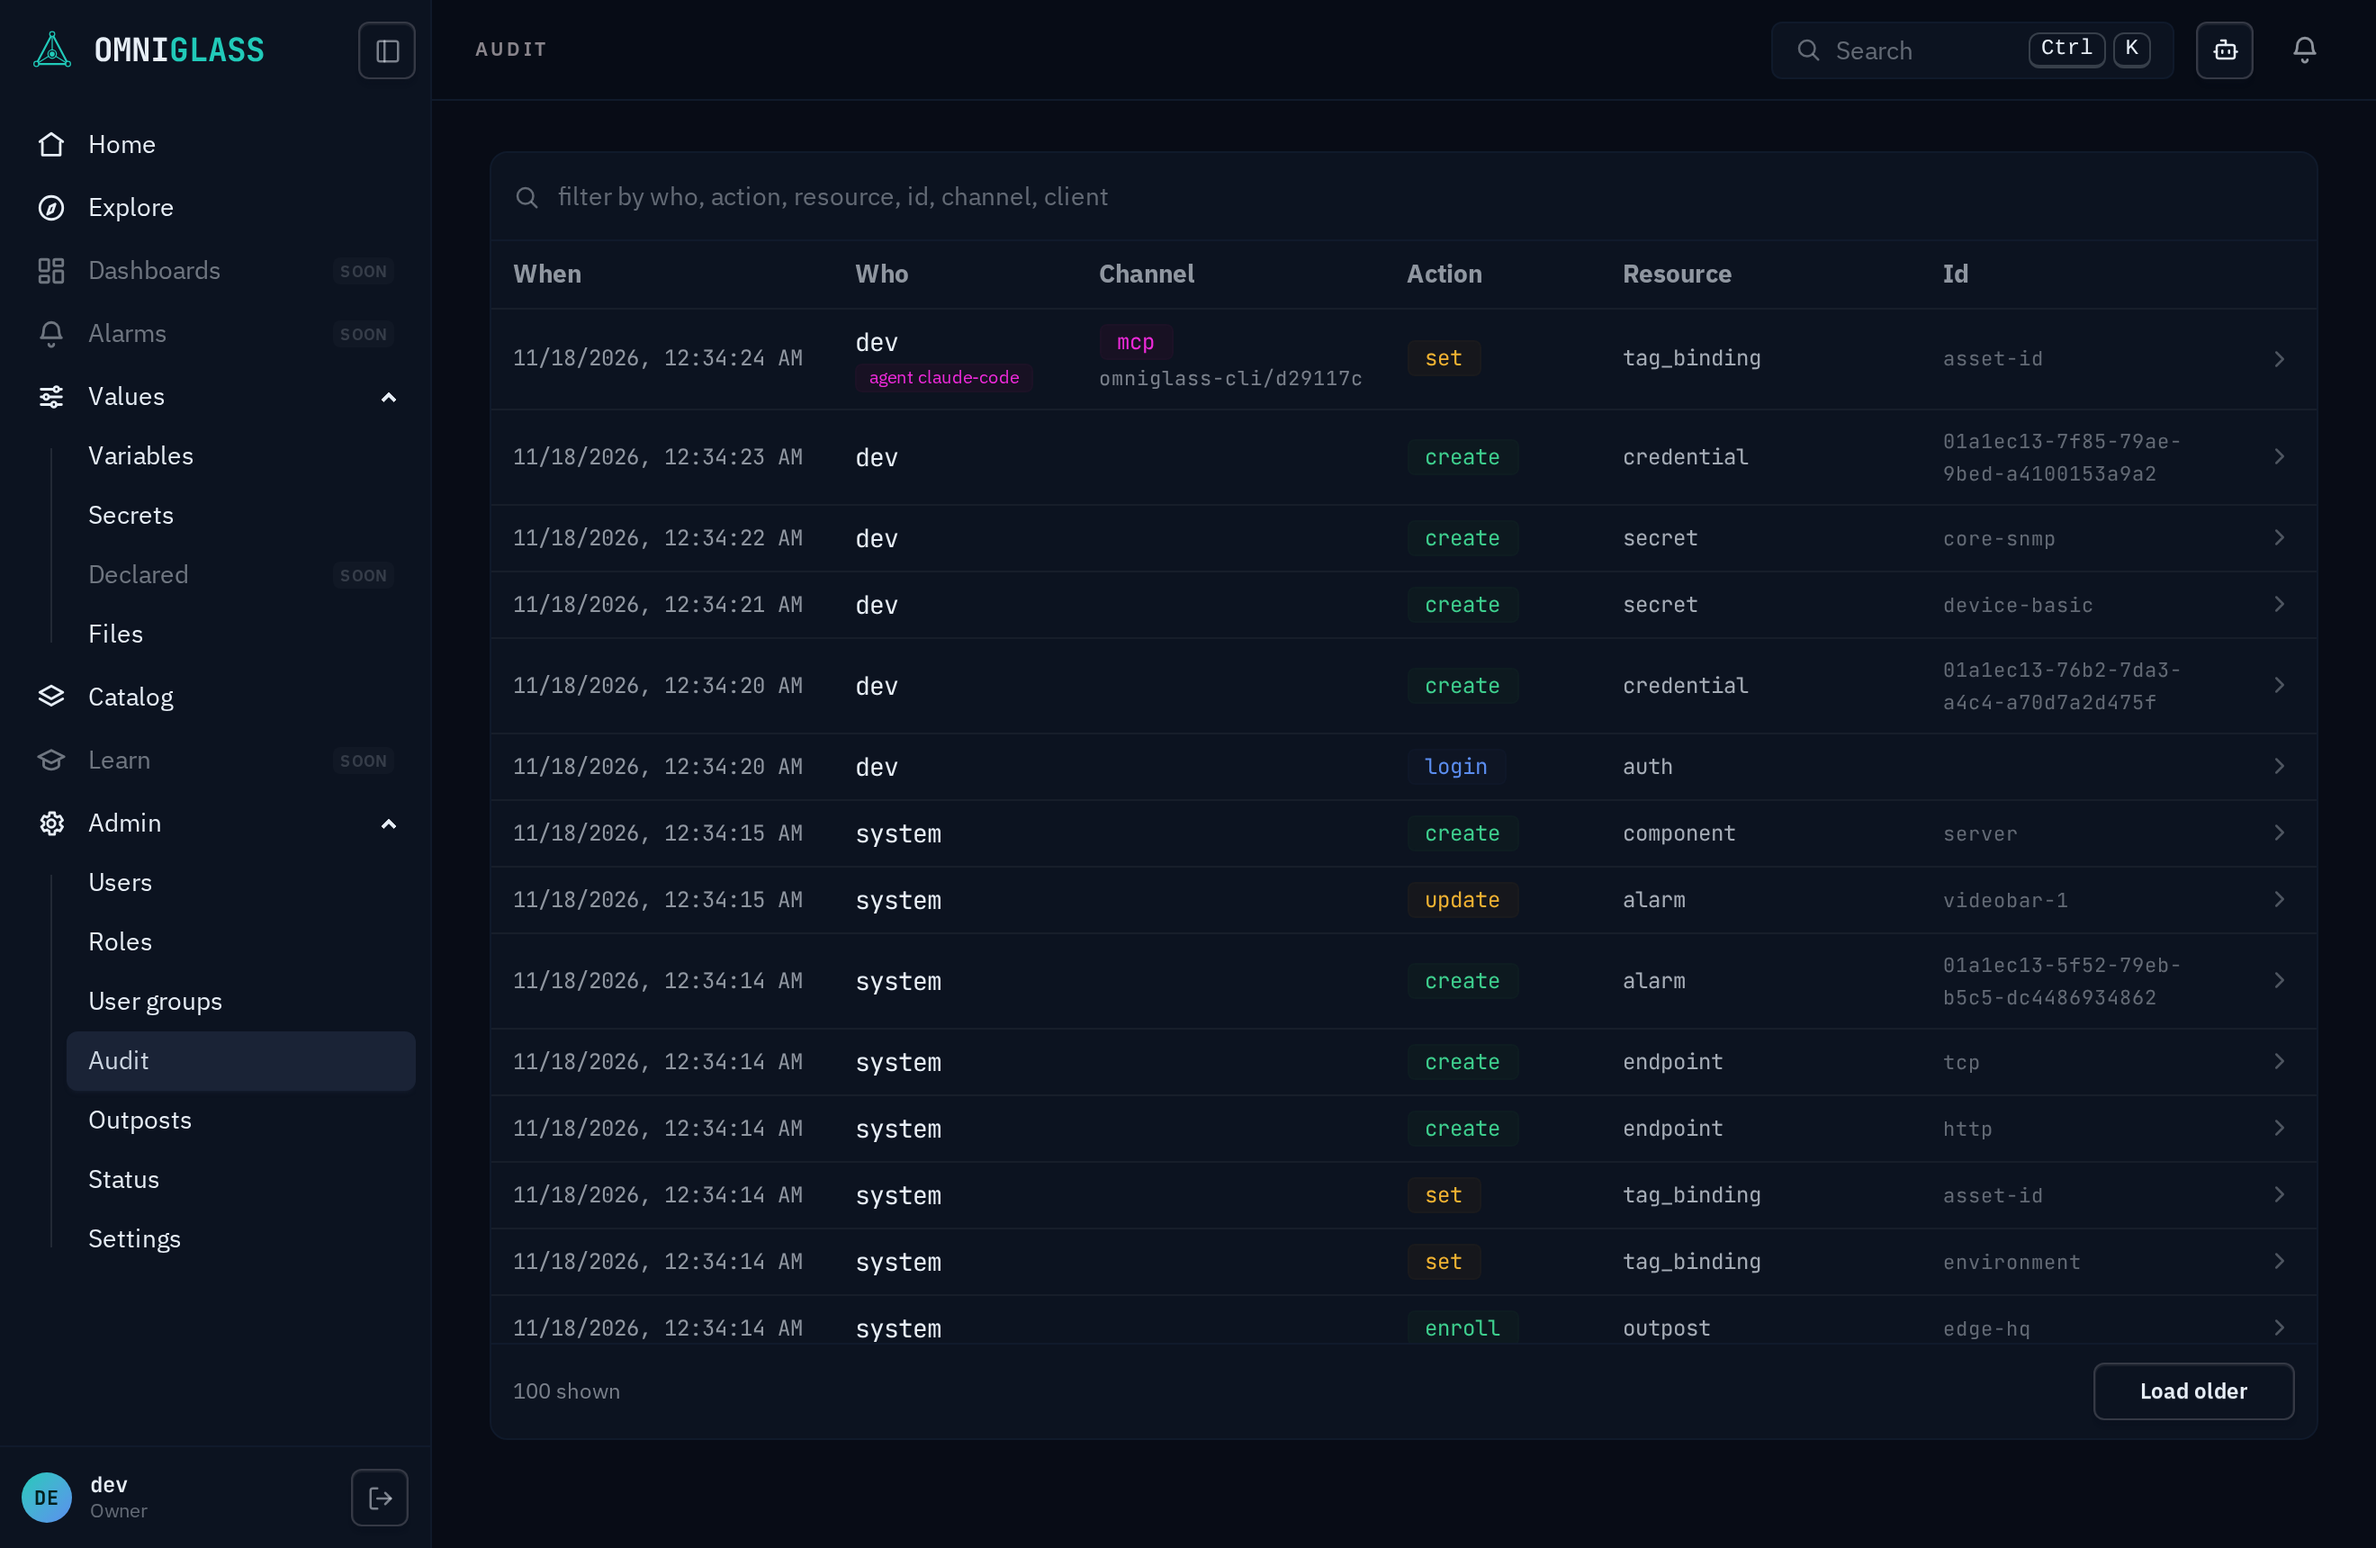
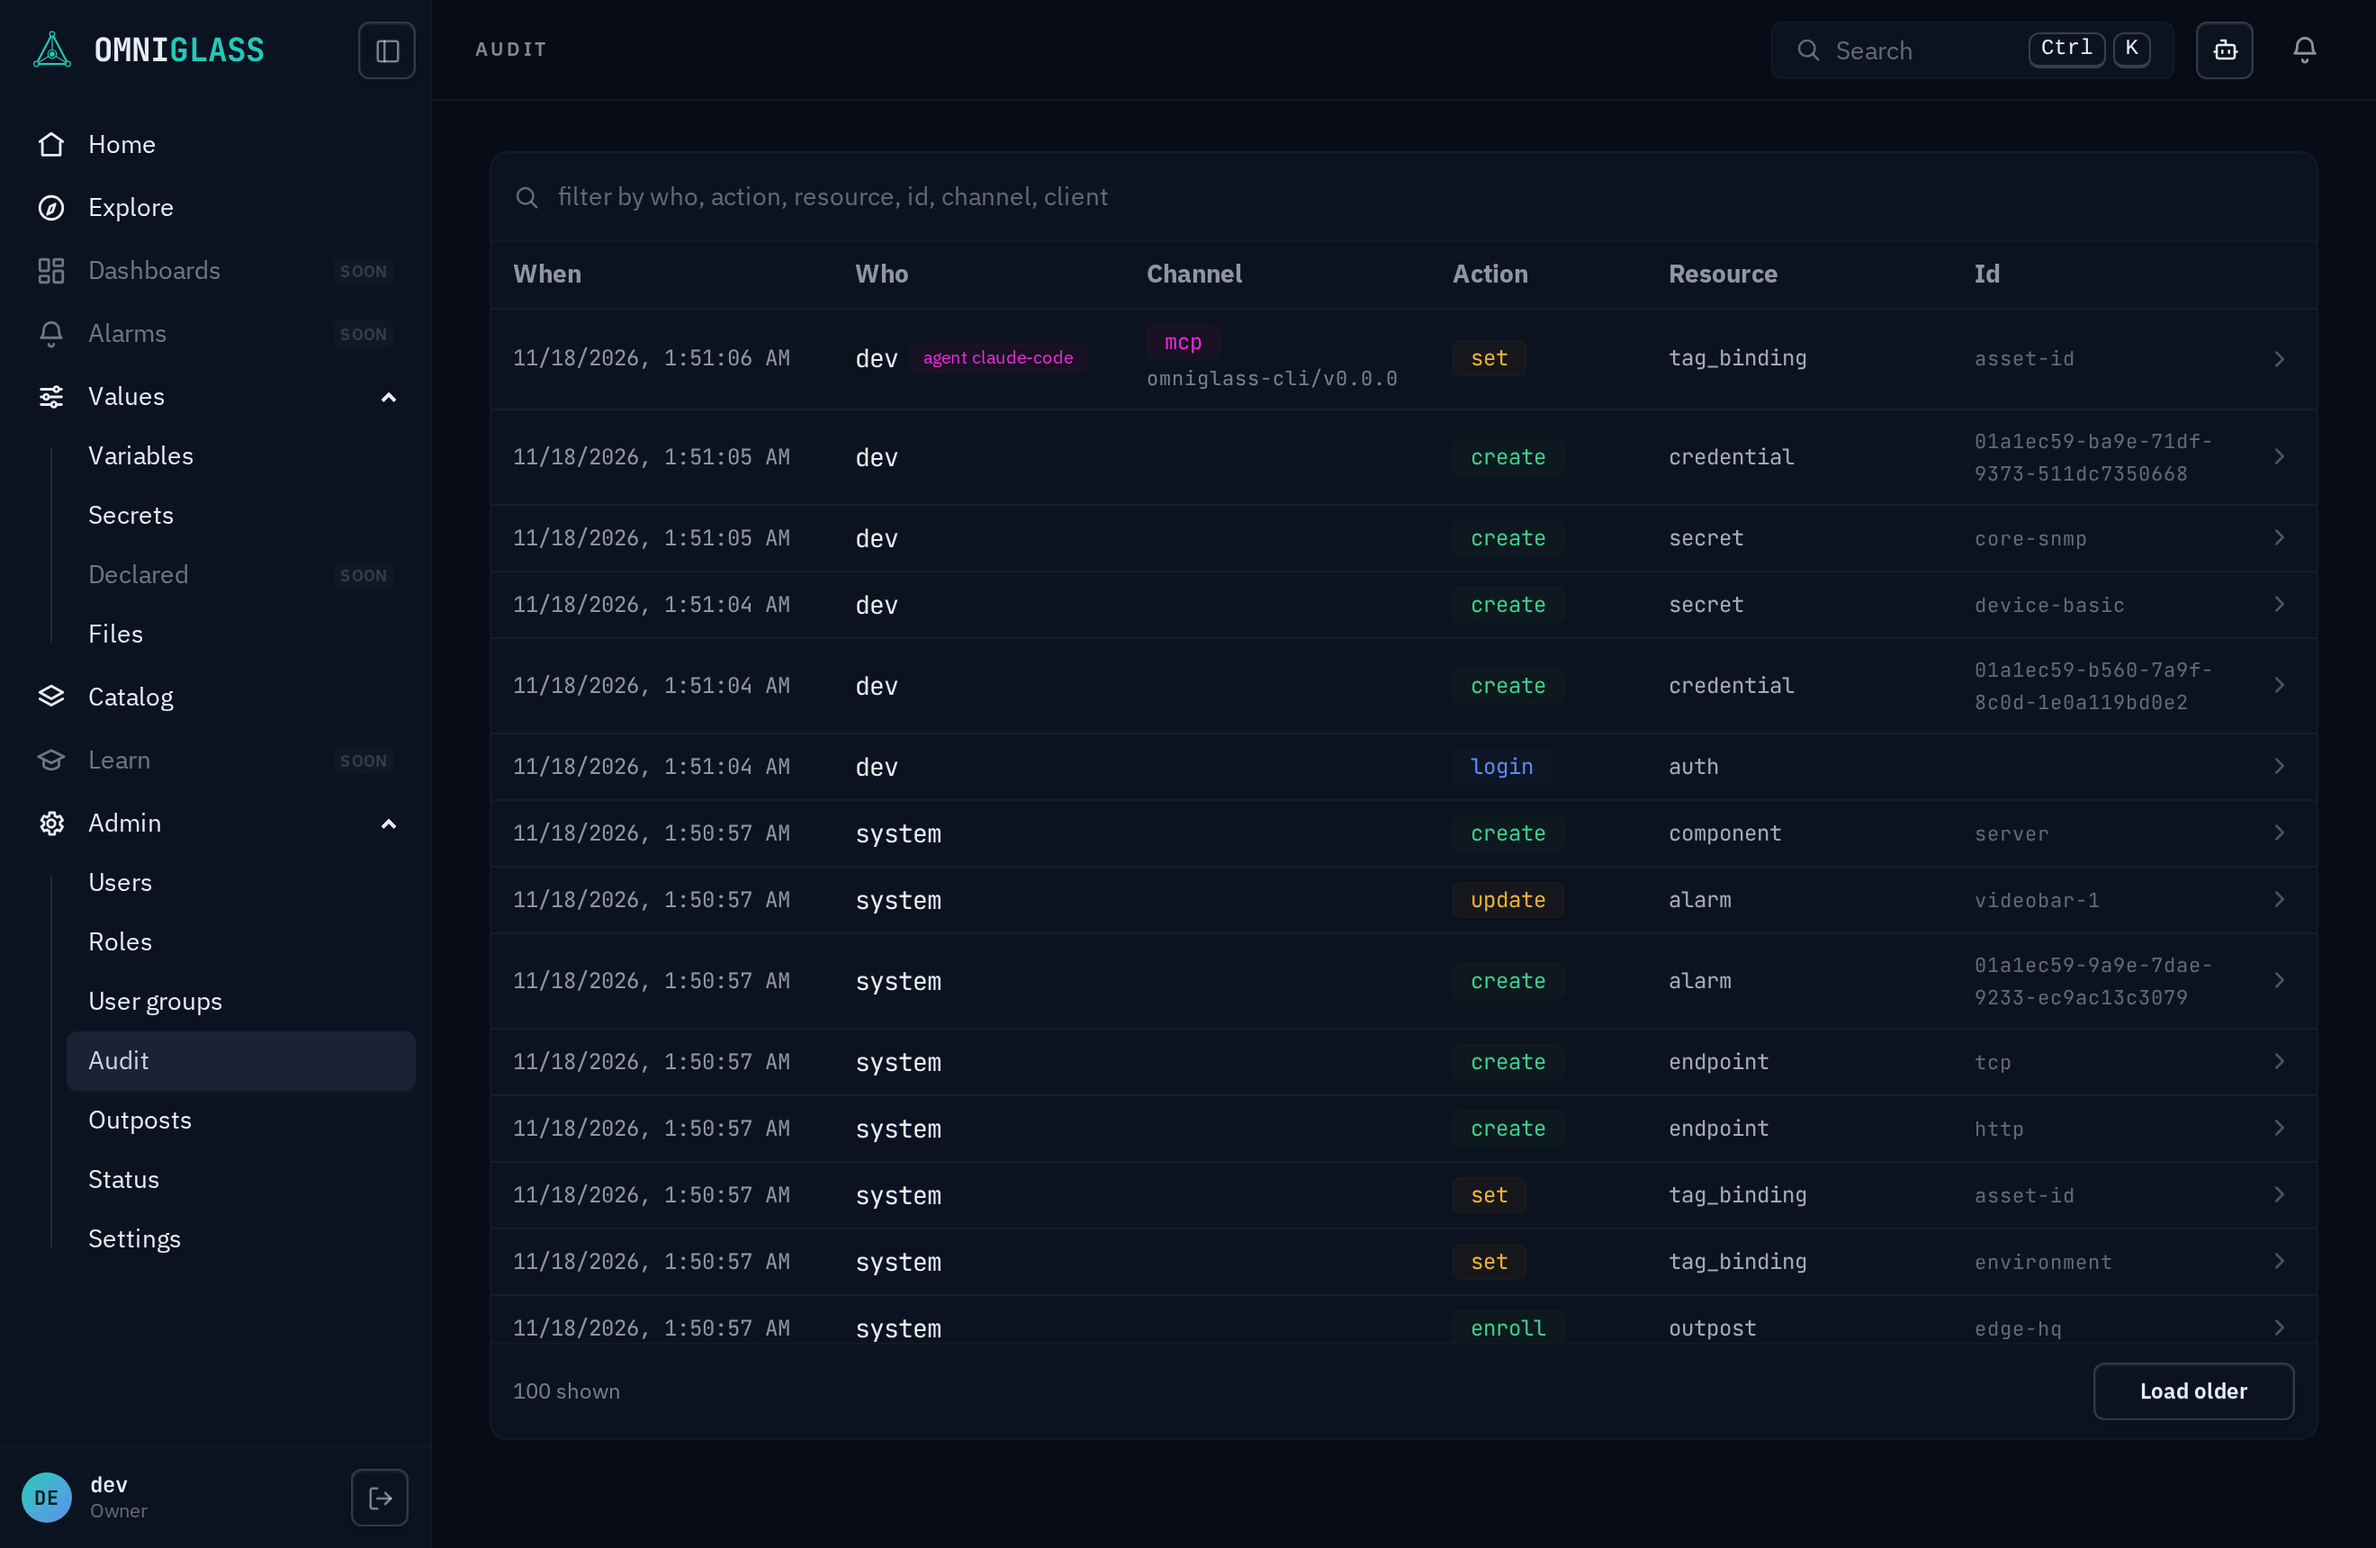
fix: keep the Platform health version tile from shifting docs screenshots (#2137)
* fix: keep the Platform health Version tile on one line and pin screenshot builds to the release tag

A dirty local build id is long and wraps the tile, growing it 48px and shifting every Platform health baseline. The tile now truncates with the full version in a tooltip, and make docs-shots / docs-shots-check stamp the newest release tag (falling back to the build id), with the freshness job fetching tags.

* fix: type the long-version test

* chore: adopt the CI recapture of the docs screenshots

* fix: fix the Audit table's column widths so masked cells cannot shift it

---------

diff --git a/web/src/pages/PlatformHealth.tsx b/web/src/pages/PlatformHealth.tsx
@@ -142,7 +142,7 @@ function Header(props: { view: PlatformView }) {
         {(s) => (
           <>
             <Fact label="Version" sub={s().name}>
-              <span class="tnum" data-testid="platform-version" classList={{ "text-base-content/30": !s().version }}>{s().version ?? NOT_REPORTED}</span>
+              <span class="tnum block min-w-0 overflow-hidden text-ellipsis whitespace-nowrap" title={s().version ?? undefined} data-testid="platform-version" classList={{ "text-base-content/30": !s().version }}>{s().version ?? NOT_REPORTED}</span>
             </Fact>
             <Fact label="Up for" sub={s().started_at ? `since ${fmtTime(s().started_at!)}` : "no start time written yet"}>
               <span class="tnum" data-testid="platform-uptime">{serverUptime(props.view.read_at, s().started_at) ?? NOT_REPORTED}</span>
@@ -156,10 +156,10 @@ function Header(props: { view: PlatformView }) {
 
 function Fact(props: { label: string; sub: string; children: JSX.Element }) {
   return (
-    <div class="card border border-base-300 bg-base-200">
-      <div class="card-body gap-1 p-5">
+    <div class="card min-w-0 border border-base-300 bg-base-200">
+      <div class="card-body min-w-0 gap-1 p-5">
         <div class="eyebrow">{props.label}</div>
-        <div class="text-2xl font-semibold leading-none">{props.children}</div>
+        <div class="min-w-0 overflow-hidden text-2xl font-semibold leading-none">{props.children}</div>
         <div class="text-xs text-base-content/50">{props.sub}</div>
       </div>
     </div>

diff --git a/web/src/components/FlatList.tsx b/web/src/components/FlatList.tsx
@@ -39,6 +39,10 @@ export type FlatConfig<T> = {
   // replace the "Loading…" line, so the loaded rows land in place instead of
   // shifting what sits below the list (the probe's layout-shift budget).
   loadingRows?: number;
+  // Lay the table out with fixed column widths (table-layout: fixed), so cell
+  // content never sizes a column. For a list whose cells vary run to run or are
+  // masked in a screenshot (the audit trail); columns with no width split the rest.
+  fixedLayout?: boolean;
   error?: Accessor<unknown>;
   filterKeys: FilterKeys<T>;
   filterPlaceholder?: string;
@@ -196,7 +200,7 @@ export default function FlatList<T>(props: { config: FlatConfig<T> }) {
                   "min-h-0 flex-1 overflow-y-auto [&_thead_th]:sticky [&_thead_th]:top-0 [&_thead_th]:z-10 [&_thead_th]:bg-base-200": cfg.fill,
                 }}
               >
-                <table class="table table-sm">
+                <table class={cfg.fixedLayout ? "table table-sm table-fixed w-full" : "table table-sm"}>
                   <Show when={cfg.columns.some((c) => c.width)}>
                     <colgroup>
                       <For each={cfg.columns}>{(c) => <col style={c.width ? { width: c.width } : undefined} />}</For>

diff --git a/web/src/pages/PlatformHealth.test.tsx b/web/src/pages/PlatformHealth.test.tsx
@@ -140,6 +140,14 @@ function refuse() {
 
 
 describe("PlatformHealth page", () => {
+  it("keeps a long version on one line inside its tile and carries the full text as a tooltip", () => {
+    const long = "fbb3d54eb-dirty-20261117T233000Z";
+    mount({ ...full, servers: [{ ...full.servers![0], version: long }] });
+    const tile = screen.getByTestId("platform-version");
+    expect(tile).toHaveAttribute("title", long);
+    for (const c of ["min-w-0", "overflow-hidden", "whitespace-nowrap", "text-ellipsis"]) expect(tile).toHaveClass(c);
+  });
+
   it("heads the page with the build, its uptime at read_at, the verdict linking to its system, and the lab badge", () => {
     mount(full);
     const header = screen.getByTestId("platform-header");

diff --git a/web/src/pages/Audit.test.tsx b/web/src/pages/Audit.test.tsx
@@ -244,6 +244,14 @@ describe("Audit drawer fits a jsonb change (#1088)", () => {
     expect(row("Inputs").children[2].textContent).toContain('"login": "touch-panel-login"');
   });
 
+  it("fixes the trail's column widths so masked cell text cannot size them", async () => {
+    const { container, findByText } = render(() => <Audit />);
+    await findByText("retry");
+    const table = container.querySelector("table")!;
+    expect(table.className).toContain("table-fixed");
+    expect(table.className).toContain("w-full");
+  });
+
   it("lays the change table out to the drawer's width, its values wrapping in place", async () => {
     const { findByText } = render(() => <Audit />);
     fireEvent.click(await findByText("retry"));

diff --git a/web/src/pages/Audit.tsx b/web/src/pages/Audit.tsx
@@ -247,6 +247,7 @@ export default function Audit() {
           rows,
           loading,
           loadingRows: AUDIT_LOADING_ROWS,
+          fixedLayout: true,
           // A page of 100 is taller than the skeleton: scrolling the rows inside
           // the card keeps the footer where the first paint put it (#1461).
           fill: true,
